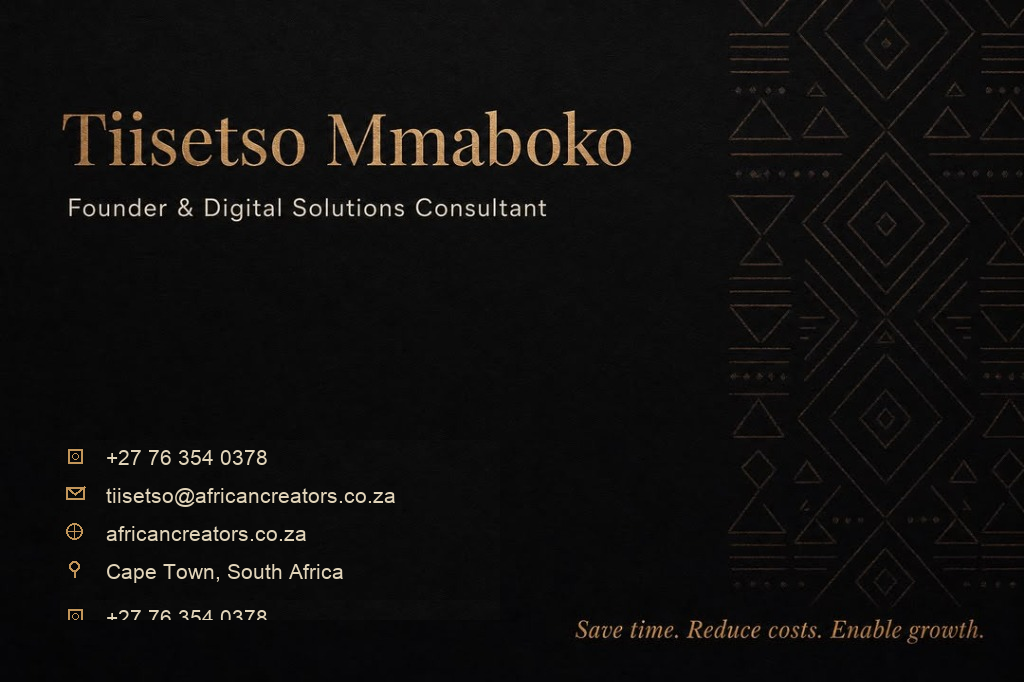
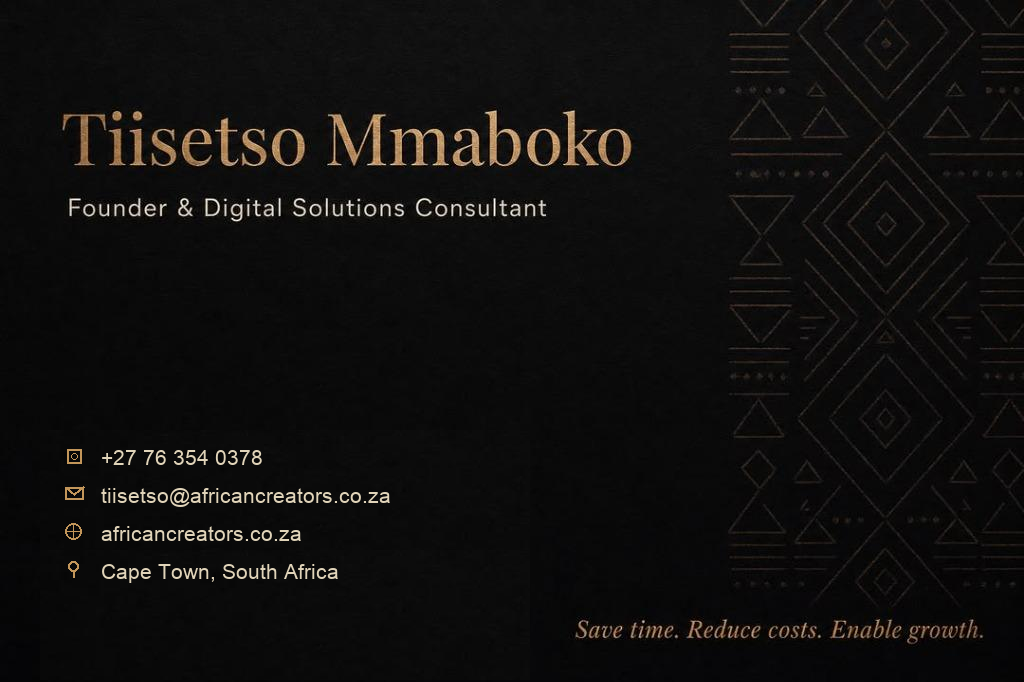
fix: generate 300 DPI PostNet print-ready business cards and fix repeating text artifact

diff --git a/scripts/generate_print_ready_cards.py b/scripts/generate_print_ready_cards.py
@@ -1,0 +1,125 @@
+#!/usr/bin/env python3
+"""
+PostNet 300 DPI Print-Ready Business Card Generator (Pixel-Perfect)
+-------------------------------------------------------------------
+PostNet Specifications:
+  - Final Trim Size: 90mm x 50mm
+  - Total Bleed Canvas: 110mm x 70mm (10mm total bleed = 5mm on each edge)
+  - Target Resolution: 300 DPI (Print Standard)
+  - Bleed Canvas Pixels (300 DPI): 1299 x 827 px
+  - Trim Pixels (300 DPI): 1063 x 591 px
+"""
+
+import os
+from PIL import Image, ImageDraw, ImageFont
+
+def generate_postnet_cards():
+    base_dir = os.path.dirname(os.path.dirname(os.path.abspath(__file__)))
+    artifacts_dir = os.path.join(os.path.expanduser("~"), ".gemini/antigravity-ide/brain/078def98-f127-4ee9-8605-7a855442ca85")
+
+    front_src = os.path.join(artifacts_dir, "raw_template_front.jpg")
+    back_src = os.path.join(artifacts_dir, "raw_template_back.jpg")
+
+    if not os.path.exists(front_src):
+        front_src = os.path.join(base_dir, "public/images/media__1785592683746.jpg")
+    if not os.path.exists(back_src):
+        back_src = os.path.join(base_dir, "public/images/media__1785592683751.jpg")
+
+    BLEED_W, BLEED_H = 1299, 827  # 110mm x 70mm @ 300 DPI
+    TRIM_W, TRIM_H = 1063, 591    # 90mm x 50mm @ 300 DPI
+
+    # -------------------------------------------------------------
+    # 1. PROCESS BACK CARD (ERASE OLD TEXT & RE-RENDER CRISP CONTACTS)
+    # -------------------------------------------------------------
+    back_img = Image.open(back_src).convert("RGB")
+    
+    # Sample pure blank dark texture between y=290 and y=420 (x: 40 to 530)
+    pure_blank_texture = back_img.crop((40, 290, 530, 420))
+    
+    # Create clean image canvas and erase all old contact text cleanly
+    clean_back = back_img.copy()
+    clean_back.paste(pure_blank_texture, (40, 430))
+    clean_back.paste(pure_blank_texture, (40, 550))
+
+    draw = ImageDraw.Draw(clean_back)
+
+    # Crisp typography
+    try:
+        font_contact = ImageFont.truetype("/System/Library/Fonts/Supplemental/Arial.ttf", 21)
+    except Exception:
+        font_contact = ImageFont.load_default()
+
+    gold_icon = (195, 150, 90)
+    gold_text = (225, 212, 185)
+
+    def draw_phone_icon(d, x, y):
+        d.rectangle([x+2, y+2, x+16, y+16], outline=gold_icon, width=2)
+        d.ellipse([x+6, y+6, x+12, y+12], outline=gold_icon, width=1)
+
+    def draw_email_icon(d, x, y):
+        d.rectangle([x, y+2, x+18, y+14], outline=gold_icon, width=2)
+        d.line([x, y+2, x+9, y+9], fill=gold_icon, width=2)
+        d.line([x+18, y+2, x+9, y+9], fill=gold_icon, width=2)
+
+    def draw_globe_icon(d, x, y):
+        d.ellipse([x, y, x+16, y+16], outline=gold_icon, width=2)
+        d.line([x, y+8, x+16, y+8], fill=gold_icon, width=1)
+        d.line([x+8, y, x+8, y+16], fill=gold_icon, width=1)
+
+    def draw_pin_icon(d, x, y):
+        d.ellipse([x+3, y, x+13, y+10], outline=gold_icon, width=2)
+        d.line([x+8, y+10, x+8, y+16], fill=gold_icon, width=2)
+
+    contacts = [
+        (draw_phone_icon, "+27 76 354 0378"),
+        (draw_email_icon, "tiisetso@africancreators.co.za"),
+        (draw_globe_icon, "africancreators.co.za"),
+        (draw_pin_icon, "Cape Town, South Africa"),
+    ]
+
+    start_x = 65
+    start_y = 445
+    spacing = 38
+
+    for i, (icon_fn, text) in enumerate(contacts):
+        cy = start_y + i * spacing
+        icon_fn(draw, start_x, cy + 2)
+        draw.text((start_x + 36, cy), text, fill=gold_text, font=font_contact)
+
+    # -------------------------------------------------------------
+    # 2. RESIZE TO POSTNET 300 DPI SPECS (LANCZOS HIGH QUALITY)
+    # -------------------------------------------------------------
+    front_img = Image.open(front_src).convert("RGB")
+
+    # A) 300 DPI Bleed Files (1299 x 827 px = 110mm x 70mm with 10mm total bleed)
+    front_300_bleed = front_img.resize((BLEED_W, BLEED_H), Image.Resampling.LANCZOS)
+    back_300_bleed = clean_back.resize((BLEED_W, BLEED_H), Image.Resampling.LANCZOS)
+
+    # B) 300 DPI Trim Files (1063 x 591 px = 90mm x 50mm exact cut)
+    front_300_trim = front_img.resize((TRIM_W, TRIM_H), Image.Resampling.LANCZOS)
+    back_300_trim = clean_back.resize((TRIM_W, TRIM_H), Image.Resampling.LANCZOS)
+
+    out_dir = os.path.join(base_dir, "public/images")
+    os.makedirs(out_dir, exist_ok=True)
+
+    # Save high-res print files with DPI headers
+    front_300_bleed.save(os.path.join(out_dir, "postnet_business_card_front_300dpi_bleed.png"), dpi=(300, 300))
+    back_300_bleed.save(os.path.join(out_dir, "postnet_business_card_back_300dpi_bleed.png"), dpi=(300, 300))
+
+    front_300_trim.save(os.path.join(out_dir, "postnet_business_card_front_300dpi_trim.png"), dpi=(300, 300))
+    back_300_trim.save(os.path.join(out_dir, "postnet_business_card_back_300dpi_trim.png"), dpi=(300, 300))
+
+    # Save web UI display versions
+    front_img.save(os.path.join(out_dir, "business-card-front.png"))
+    clean_back.save(os.path.join(out_dir, "business-card-back.png"))
+
+    # Copy print files to artifacts for easy downloading/reviewing
+    front_300_bleed.save(os.path.join(artifacts_dir, "postnet_front_300dpi_110x70mm_bleed.png"), dpi=(300, 300))
+    back_300_bleed.save(os.path.join(artifacts_dir, "postnet_back_300dpi_110x70mm_bleed.png"), dpi=(300, 300))
+    front_300_trim.save(os.path.join(artifacts_dir, "postnet_front_300dpi_90x50mm_trim.png"), dpi=(300, 300))
+    back_300_trim.save(os.path.join(artifacts_dir, "postnet_back_300dpi_90x50mm_trim.png"), dpi=(300, 300))
+
+    print("✅ Successfully generated PostNet 300 DPI business cards!")
+
+if __name__ == "__main__":
+    generate_postnet_cards()
